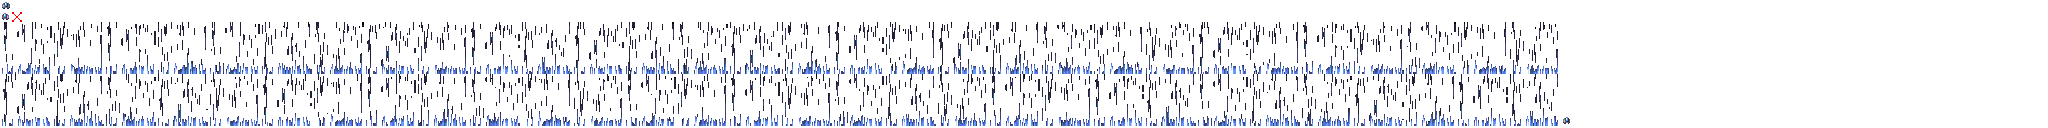
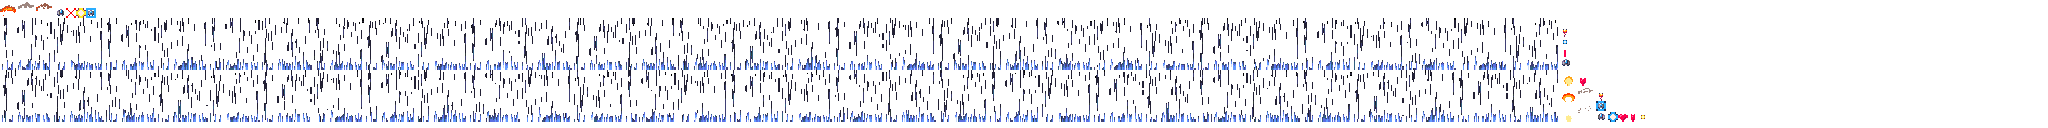
Added Attachment system & component so they move with  & remove with attached entities

diff --git a/core/src/main/kotlin/com/github/kovah101/darkmatter/screen/GameScreen.kt b/core/src/main/kotlin/com/github/kovah101/darkmatter/screen/GameScreen.kt
@@ -4,6 +4,7 @@ package com.github.kovah101.darkmatter.screen
 import com.badlogic.gdx.Gdx
 import com.badlogic.gdx.Input
 import com.github.kovah101.darkmatter.DarkMatter
+import com.github.kovah101.darkmatter.UNIT_SCALE
 import com.github.kovah101.darkmatter.V_WIDTH
 import com.github.kovah101.darkmatter.ecs.components.*
 import com.github.kovah101.darkmatter.ecs.system.DAMAGE_AREA_HEIGHT
@@ -14,7 +15,7 @@ import ktx.log.logger
 import java.lang.Float.min
 
 private val LOG = logger<GameScreen>()
-private const val MAX_DELTA_TIME = 1/ 20f //used to stop spiral of death
+private const val MAX_DELTA_TIME = 1 / 20f //used to stop spiral of death
 
 class GameScreen(game: DarkMatter) : DarkMatterScreen(game) {
 
@@ -23,9 +24,10 @@ class GameScreen(game: DarkMatter) : DarkMatterScreen(game) {
         LOG.debug { "First screen shown" }
 
         // 1st ship
-        engine.entity {
+        // TODO Scale ship correctly - see code base if not covered
+        val playerShip = engine.entity {
             with<TransformComponent> {
-                setInitialPosition(4.2f, 8f, 0f)
+                setInitialPosition(4.5f, 8f, -1f)
             }
             with<MoveComponent>()
             with<GraphicComponent>()
@@ -33,15 +35,26 @@ class GameScreen(game: DarkMatter) : DarkMatterScreen(game) {
             with<FacingComponent>()
         }
 
+        // fire effect
+        engine.entity {
+            with<TransformComponent>()
+            with<AttachComponent> {
+                entity = playerShip
+                offset.set(0.8f * UNIT_SCALE, -6f * UNIT_SCALE)
+            }
+            with<GraphicComponent>()
+            with<AnimationComponent> { type = AnimationType.FIRE }
+        }
+
         // dark matter
-        engine.entity{
-            with<TransformComponent>{
+        engine.entity {
+            with<TransformComponent> {
                 size.set(
                     V_WIDTH.toFloat(),
                     DAMAGE_AREA_HEIGHT
                 )
             }
-            with<AnimationComponent>{type = AnimationType.DARK_MATTER}
+            with<AnimationComponent> { type = AnimationType.DARK_MATTER }
             with<GraphicComponent>()
         }
 
@@ -53,7 +66,7 @@ class GameScreen(game: DarkMatter) : DarkMatterScreen(game) {
         engine.update(min(MAX_DELTA_TIME, delta))
         // TODO Remove Debug lines
         // extra life for debug
-        if(Gdx.input.isKeyJustPressed(Input.Keys.NUM_0)) {
+        if (Gdx.input.isKeyJustPressed(Input.Keys.NUM_0)) {
             // spawn player
             engine.entity {
                 with<TransformComponent> {

diff --git a/core/src/main/kotlin/com/github/kovah101/darkmatter/ecs/system/AttachSystem.kt b/core/src/main/kotlin/com/github/kovah101/darkmatter/ecs/system/AttachSystem.kt
@@ -1,0 +1,66 @@
+package com.github.kovah101.darkmatter.ecs.system
+
+import com.badlogic.ashley.core.Engine
+import com.badlogic.ashley.core.Entity
+import com.badlogic.ashley.core.EntityListener
+import com.badlogic.ashley.systems.IteratingSystem
+import com.github.kovah101.darkmatter.ecs.components.AttachComponent
+import com.github.kovah101.darkmatter.ecs.components.GraphicComponent
+import com.github.kovah101.darkmatter.ecs.components.RemoveComponent
+import com.github.kovah101.darkmatter.ecs.components.TransformComponent
+import ktx.ashley.addComponent
+import ktx.ashley.allOf
+import ktx.ashley.get
+
+class AttachSystem :
+    EntityListener,
+    IteratingSystem(allOf(AttachComponent::class, TransformComponent::class, GraphicComponent::class).get()) {
+    override fun addedToEngine(engine: Engine) {
+        super.addedToEngine(engine)
+        engine.addEntityListener(this)
+    }
+
+    override fun removedFromEngine(engine: Engine) {
+        super.removedFromEngine(engine)
+        engine.removeEntityListener(this)
+    }
+
+    override fun entityAdded(entity: Entity) = Unit
+
+    override fun entityRemoved(removedEntity: Entity) {
+        // for all attached entities add remove component so they are removed
+        entities.forEach { entity ->
+            entity[AttachComponent.mapper]?.let { attach ->
+                if (attach.entity == removedEntity) {
+                    entity.addComponent<RemoveComponent>(engine)
+                }
+            }
+        }
+    }
+
+    override fun processEntity(entity: Entity, deltaTime: Float) {
+        val attach = entity[AttachComponent.mapper]
+        require(attach != null) {"Entity |entity| must have an AttachComponent. entity=$entity"}
+        val graphic = entity[GraphicComponent.mapper]
+        require(graphic != null) {"Entity |entity| must have an GraphicsComponent. entity=$entity"}
+        val transform = entity[TransformComponent.mapper]
+        require(transform != null) {"Entity |entity| must have an TransformComponent. entity=$entity"}
+
+        // update position
+        attach.entity[TransformComponent.mapper]?.let { attachTransform ->
+            transform.interpolatedPosition.set(
+                attachTransform.interpolatedPosition.x + attach.offset.x,
+                attachTransform.interpolatedPosition.y + attach.offset.y,
+                transform.position.z
+            )
+        }
+
+        // update graphic alpha value
+        attach.entity[GraphicComponent.mapper]?.let{ attachGraphic ->
+            graphic.sprite.setAlpha(attachGraphic.sprite.color.a)
+        }
+
+    }
+
+
+}

diff --git a/core/src/main/kotlin/com/github/kovah101/darkmatter/ecs/components/AttachComponent.kt b/core/src/main/kotlin/com/github/kovah101/darkmatter/ecs/components/AttachComponent.kt
@@ -1,0 +1,20 @@
+package com.github.kovah101.darkmatter.ecs.components
+
+import com.badlogic.ashley.core.Component
+import com.badlogic.ashley.core.Entity
+import com.badlogic.gdx.math.Vector2
+import com.badlogic.gdx.utils.Pool
+import ktx.ashley.mapperFor
+
+class AttachComponent : Component, Pool.Poolable{
+    lateinit var entity: Entity //linked entity
+    val offset = Vector2()
+
+    override fun reset() {
+        offset.set(0f, 0f)
+    }
+
+    companion object{
+        val mapper = mapperFor<AttachComponent>()
+    }
+}

diff --git a/core/src/main/kotlin/com/github/kovah101/darkmatter/DarkMatter.kt b/core/src/main/kotlin/com/github/kovah101/darkmatter/DarkMatter.kt
@@ -41,6 +41,7 @@ class DarkMatter : KtxGame<DarkMatterScreen>() {
                     graphicsAtlas.findRegion("ship_right")
                 )
             )
+            addSystem(AttachSystem())
             addSystem(AnimationSystem(graphicsAtlas))
             addSystem(RenderSystem(batch, gameViewport))
             addSystem(RemoveSystem()) // last system to be added

diff --git a/core/src/main/kotlin/com/github/kovah101/darkmatter/ecs/components/animation.kt b/core/src/main/kotlin/com/github/kovah101/darkmatter/ecs/components/animation.kt
@@ -15,7 +15,8 @@ enum class AnimationType(
     val speedRate: Float = 1f
 ) {
     NONE(""),
-    DARK_MATTER("dark_matter", speedRate = 3f)
+    DARK_MATTER("dark_matter", speedRate = 3f),
+    FIRE("fire")
 }
 
 class Animation2D (
